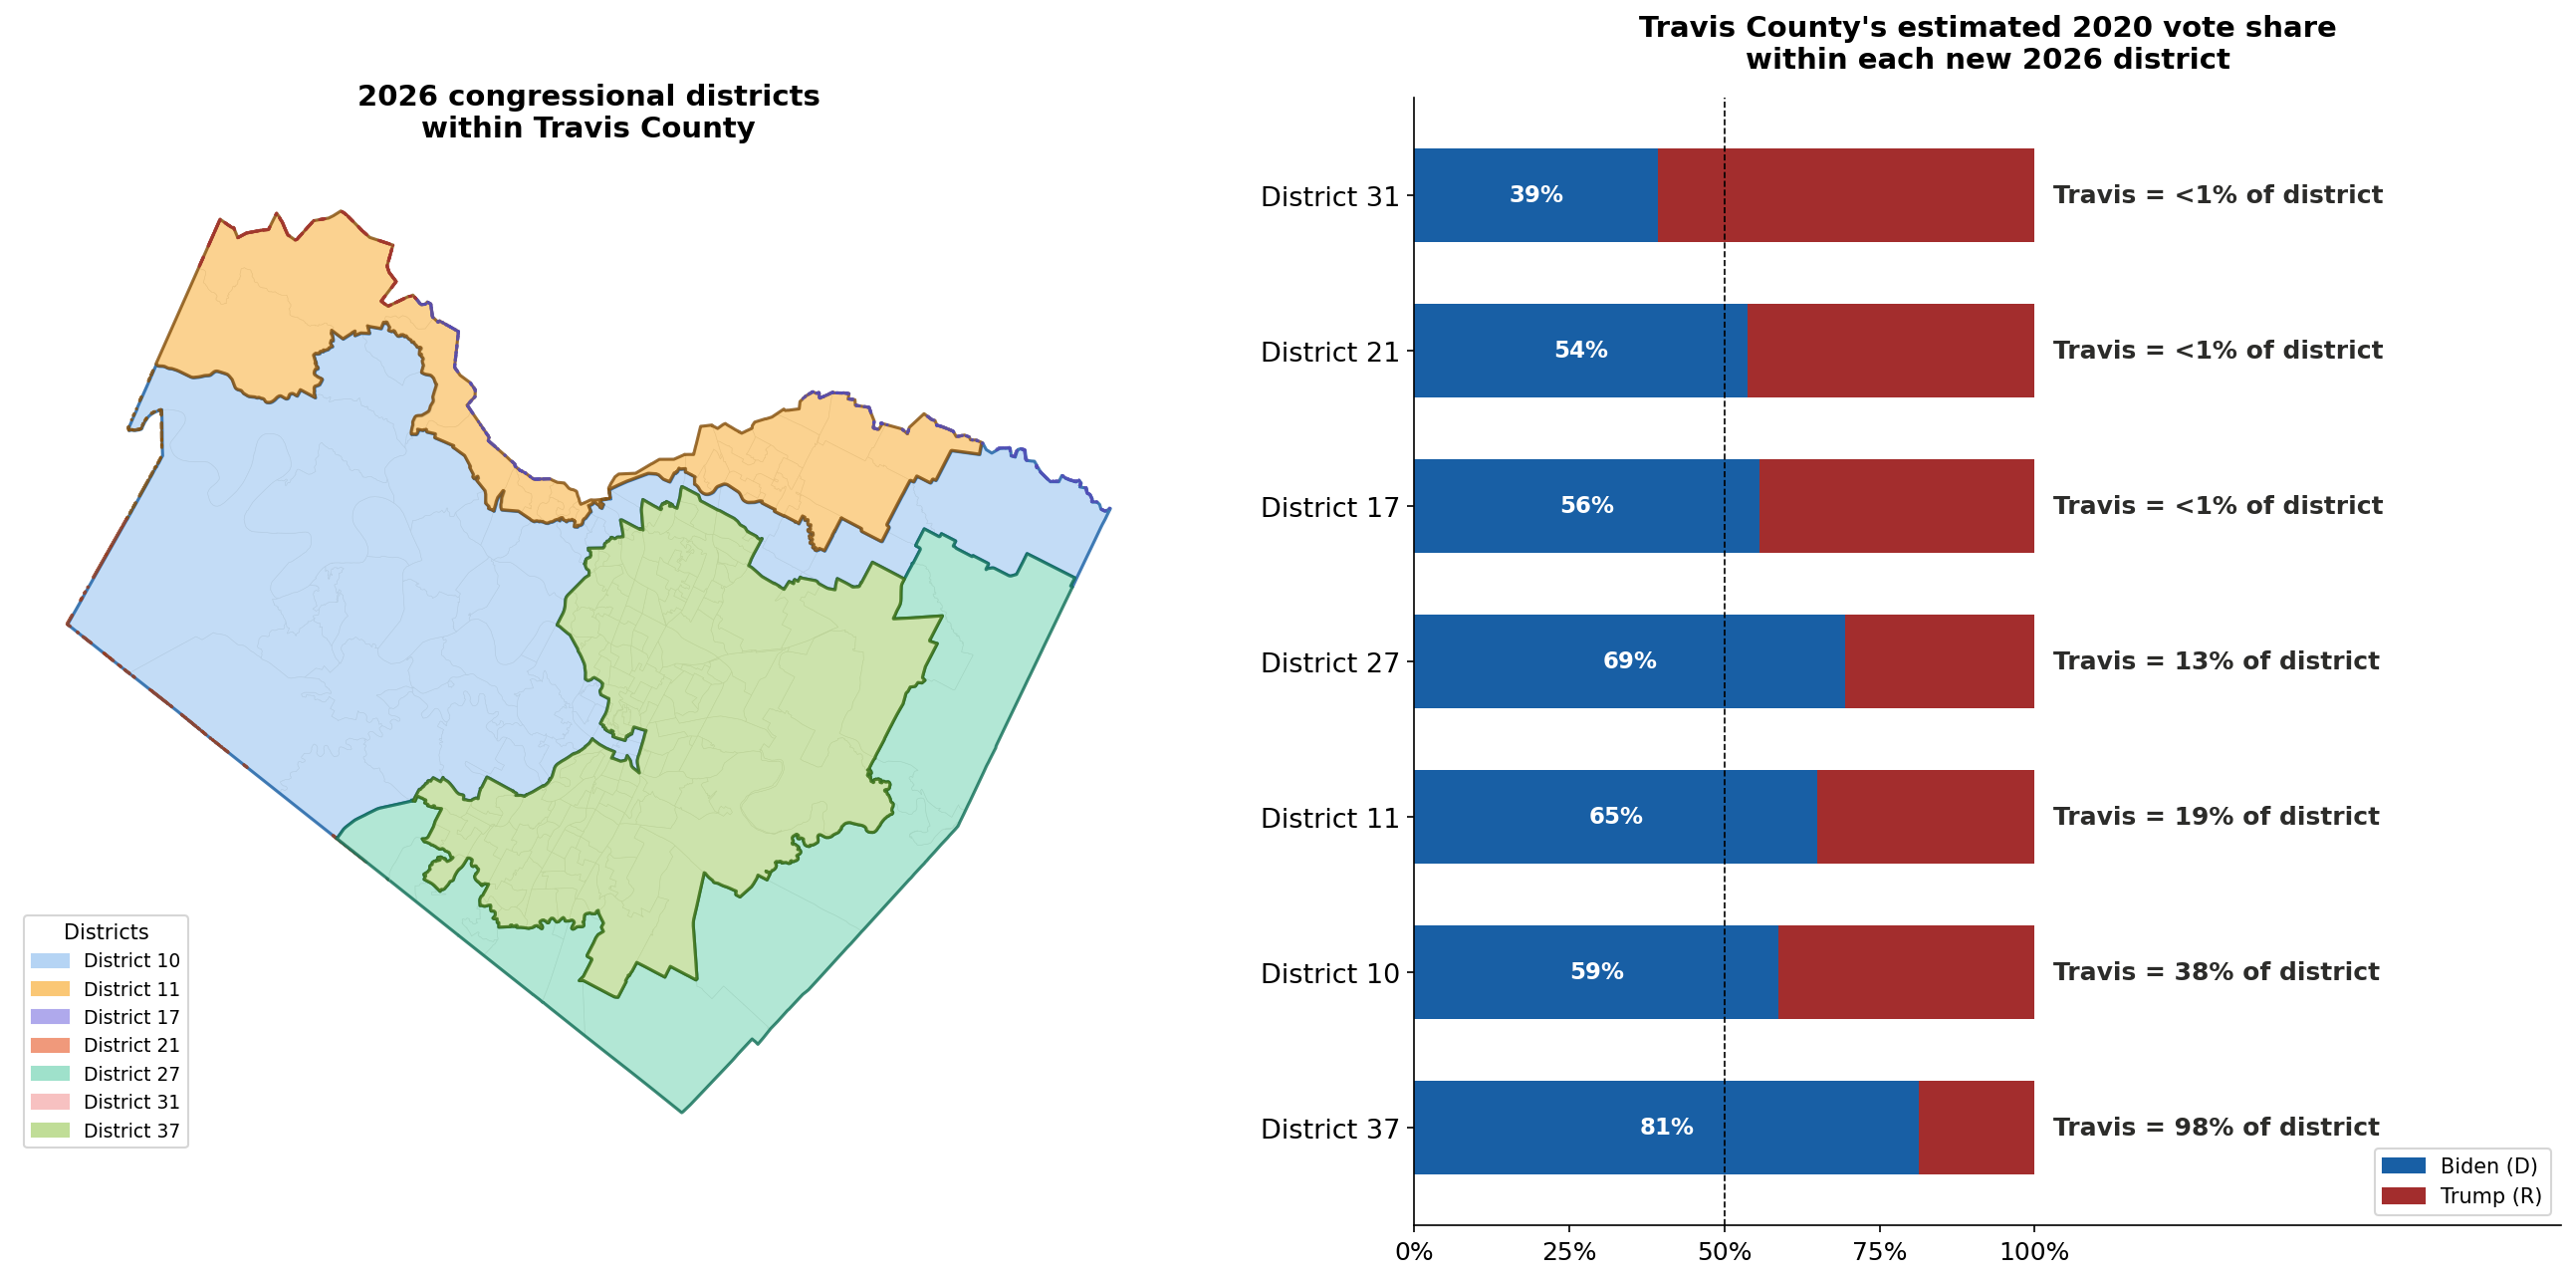
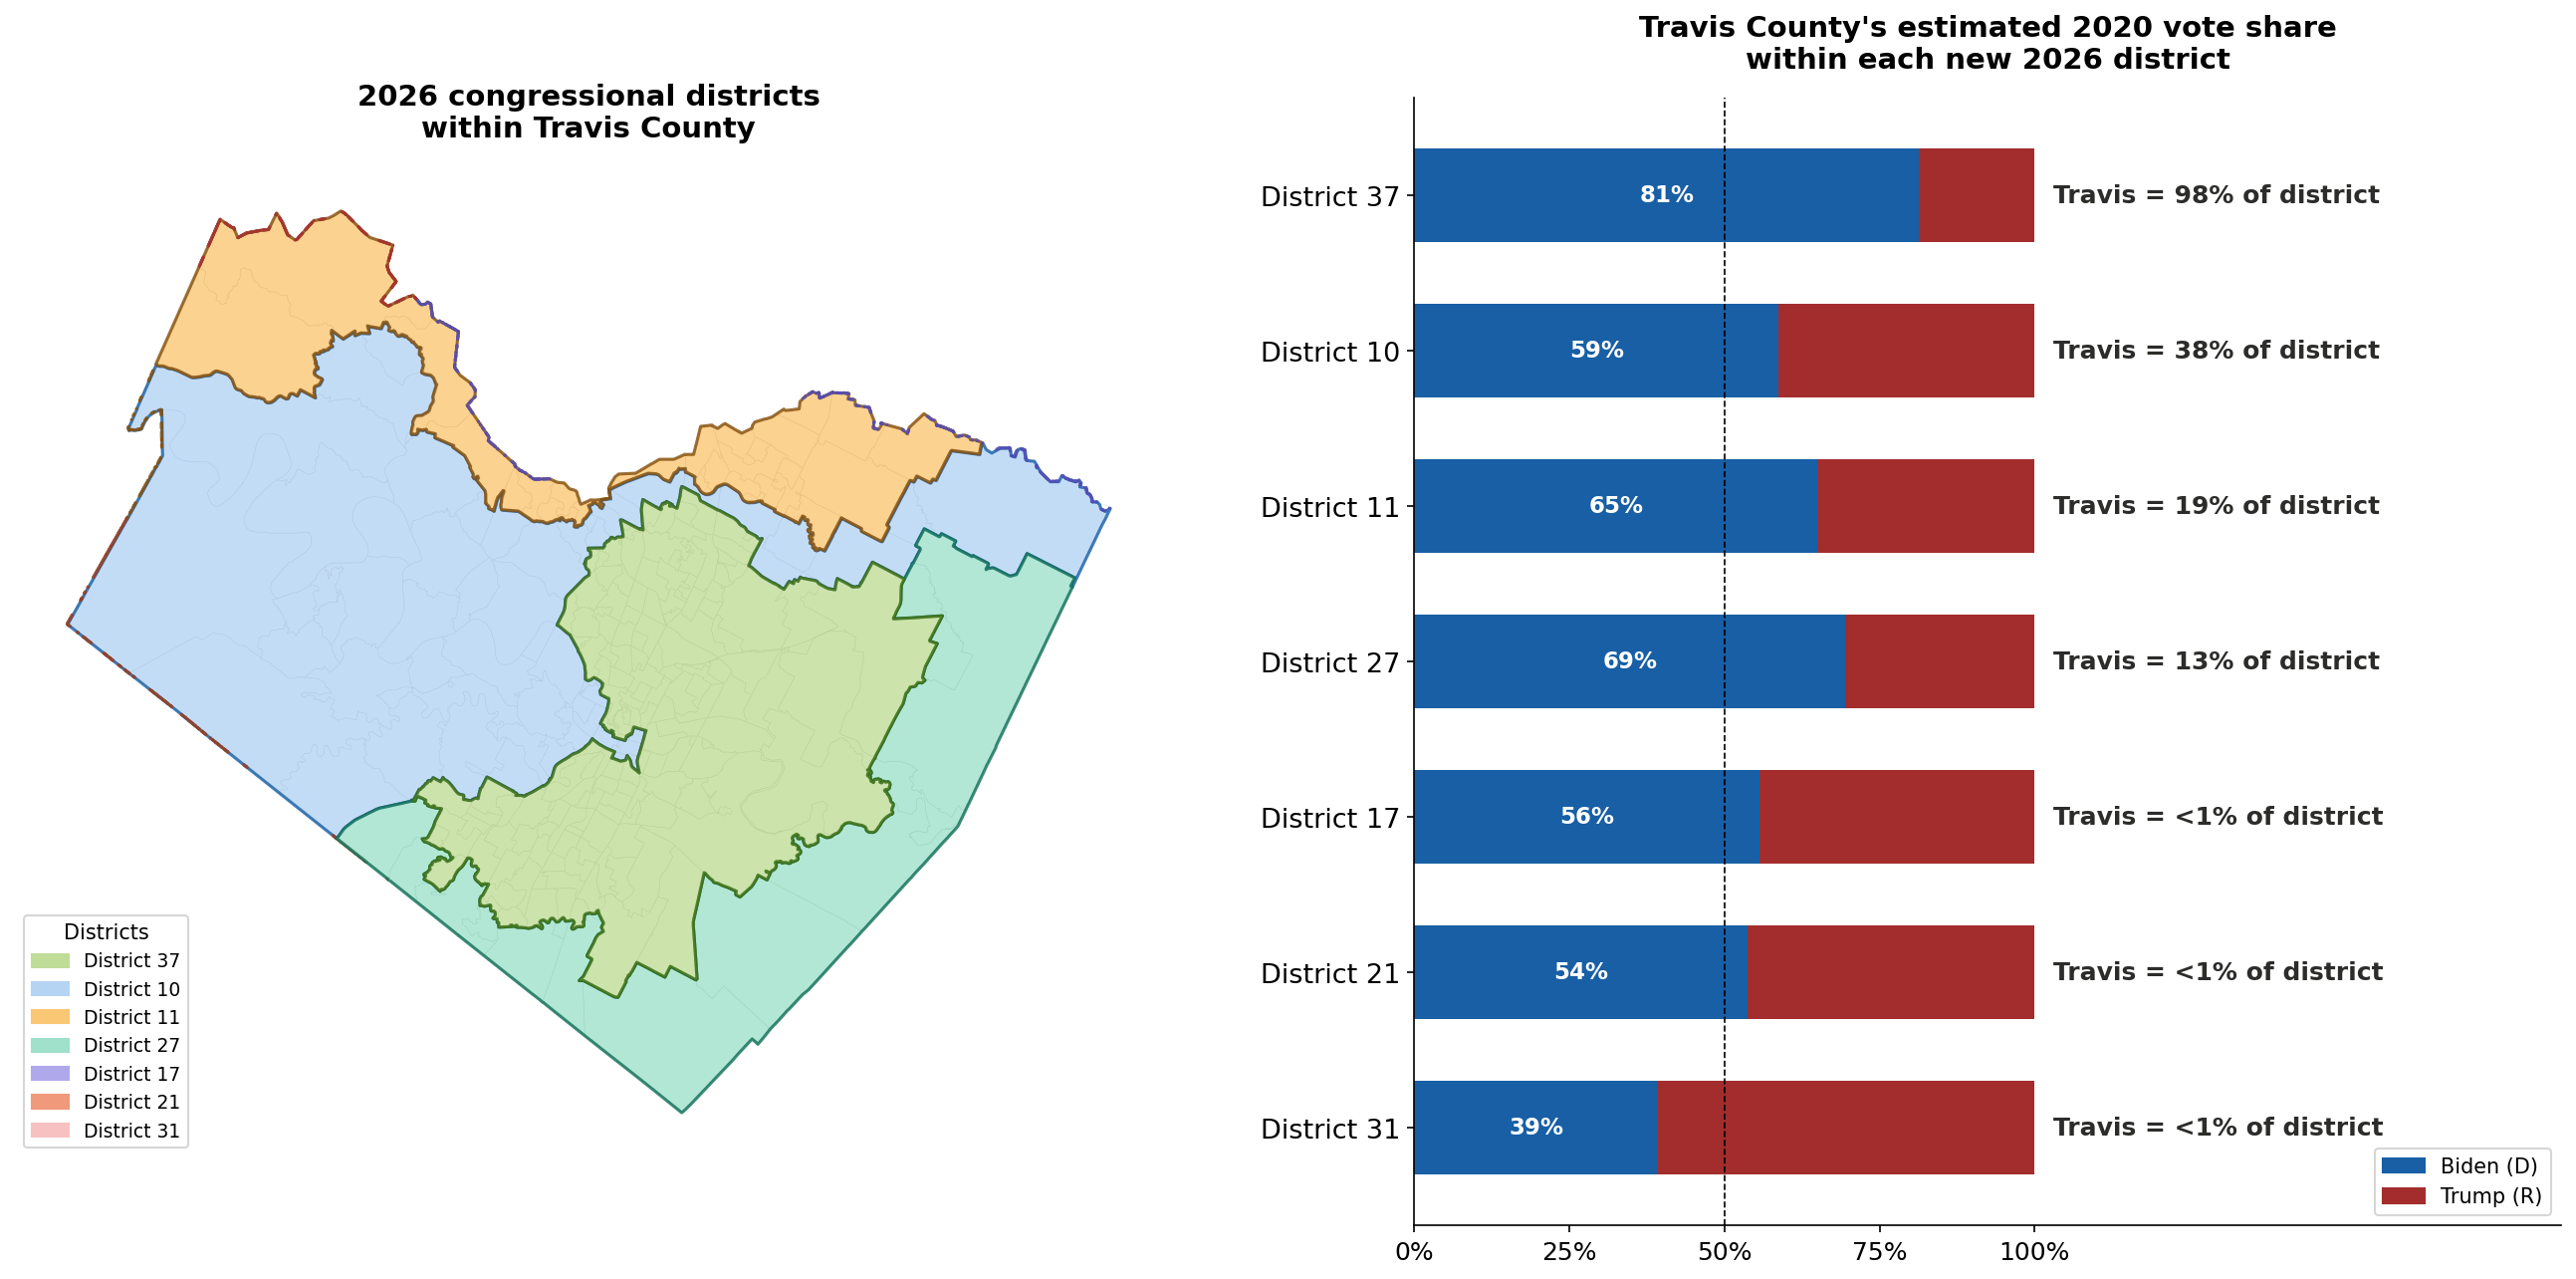
Update population density figure — show precincts being cut by district lines

diff --git a/docs/methodology.md b/docs/methodology.md
@@ -38,7 +38,7 @@ The baseline approach is area-weighted interpolation: if 70% of a precinct's lan
 
 The better approach is population-weighted interpolation, which is what this project uses. Instead of splitting votes by land area, we split them by where residents actually live. We use Census block population counts to calculate the exact fraction of a precinct's population that falls inside each new district, and use those population fractions to allocate the historical votes.
 
-![Population density with 2026 district lines — District 10 highlighted](images/population_density_district10.png)
+![Population density with 2026 district and precinct lines — district boundaries cut through voting precincts](images/population_density_district10.png)
 
 The result is a much more accurate estimate of how a new district configuration would have performed in a past election.
 